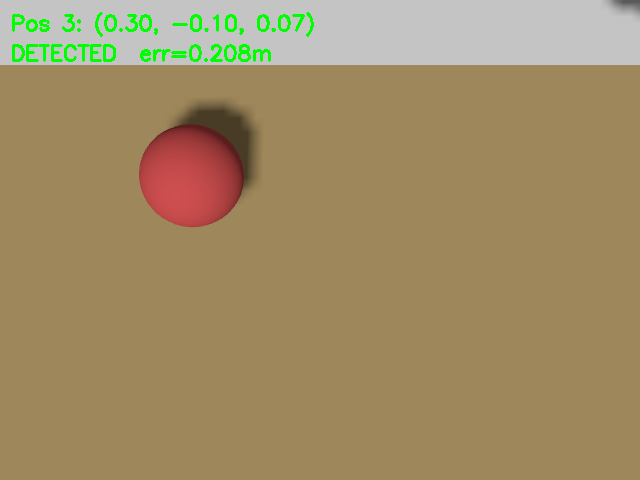
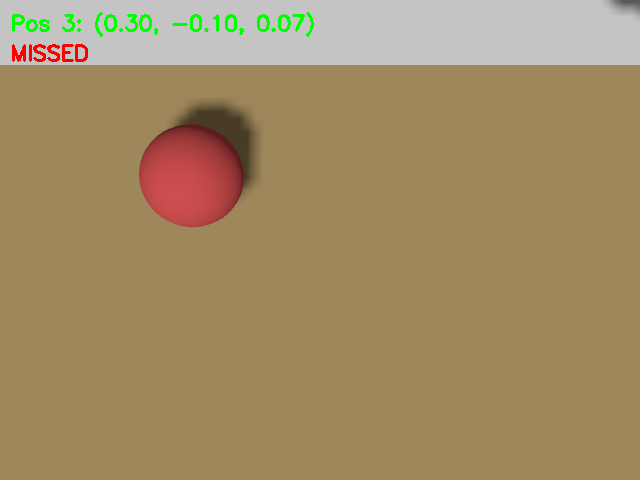
fixed centroid math

Changed region(s): [[0.0, 0.0938, 0.1875, 0.1562], [0.2188, 0.0938, 0.4375, 0.125]]

diff --git a/code/ros-gazebo-v1/ros2_ws/src/ur3e_gazebo/ur3e_gazebo/test_apple_detection.py b/code/ros-gazebo-v1/ros2_ws/src/ur3e_gazebo/ur3e_gazebo/test_apple_detection.py
@@ -29,7 +29,7 @@ TEST_POSITIONS = [
 
 ]
 
-OUTPUT_DIR = os.path.expanduser("~/Code/ROS/GroceryRobot/apple_detection_test_flip")
+OUTPUT_DIR = os.path.expanduser("~/Code/ROS/GroceryRobot/apple_detection_test")
 
 
 class AppleDetectionTester(Node):
@@ -126,6 +126,7 @@ class AppleDetectionTester(Node):
 
     def _save_image(self, position_index, x, y, z):
         detected = self._latest_location is not None
+      
         est_x = self._latest_location.point.x if detected else None
         est_y = self._latest_location.point.y if detected else None
         est_z = self._latest_location.point.z if detected else None
@@ -156,7 +157,7 @@ class AppleDetectionTester(Node):
         cv2.putText(cv_img_bgr, label,  (10, 30), cv2.FONT_HERSHEY_SIMPLEX, 0.7, (0, 255, 0), 2)
         cv2.putText(cv_img_bgr, status, (10, 60), cv2.FONT_HERSHEY_SIMPLEX, 0.7, (0, 0, 255) if not detected else (0, 255, 0), 2)
 
-        filename = os.path.join(OUTPUT_DIR, f"flip_pos{position_index:02d}_x{x:.2f}_y{y:.2f}.png")
+        filename = os.path.join(OUTPUT_DIR, f"pos{position_index:02d}_x{x:.2f}_y{y:.2f}.png")
         cv2.imwrite(filename, cv_img_bgr)
         self.get_logger().info(f"Saved: {filename}")
 
@@ -170,7 +171,8 @@ class AppleDetectionTester(Node):
 
             # Capture timestamp before moving
             prev_img_stamp = self._latest_image_stamp
-            
+            prev_loc_stamp = self._latest_location_stamp
+
 
             self.get_logger().info(
                 f"\n=== Test {i}/5: moving apple to ({x}, {y}, {z}) ==="
@@ -181,18 +183,17 @@ class AppleDetectionTester(Node):
                 continue
 
             time.sleep(1.0) 
-            prev_loc_stamp = self._latest_location_stamp
-
+            
             got_data = self._wait_for_fresh_data(prev_img_stamp, prev_loc_stamp, timeout=5.0)
 
             if not got_data:
                 self.get_logger().warn(f"No new data after move {i}")
 
             self._save_image(i, x, y, z)
-        self._write_summary()
+        #self._write_summary()
     
     def _write_summary(self):
-        path = os.path.join(OUTPUT_DIR, "flip_test_summary.txt")
+        path = os.path.join(OUTPUT_DIR, "test_summary.txt")
         with open(path, "w") as f:
             f.write("Apple Detection Test Summary\n")
             f.write("=" * 50 + "\n\n")

diff --git a/code/ros-gazebo-v1/ros2_ws/src/ur3e_gazebo/ur3e_gazebo/overhead_camera_localizer.py b/code/ros-gazebo-v1/ros2_ws/src/ur3e_gazebo/ur3e_gazebo/overhead_camera_localizer.py
@@ -228,7 +228,7 @@ class OverheadCameraLocalizer(Node):
         pixels = np.frombuffer(msg.data, dtype=np.uint8).reshape(
             msg.height, msg.width, 3
         )
-        pixels = cv2.flip(pixels, -1) # flip image before computing centroid
+        #pixels = cv2.flip(pixels, -1) # flip image before computing centroid
         mean_r = float(np.mean(pixels[:, :, 0]))
         mean_g = float(np.mean(pixels[:, :, 1]))
         mean_b = float(np.mean(pixels[:, :, 2]))
@@ -374,8 +374,8 @@ class OverheadCameraLocalizer(Node):
         model = PinholeCameraModel()
         model.fromCameraInfo(self._latest_camera_info)
         center_x, center_y = self._latest_centroid[1], self._latest_centroid[0]
-        #center_x = self._latest_camera_info.width - 1 - center_x
-        #center_y = self._latest_camera_info.height - 1 - center_y
+        center_x = self._latest_camera_info.width - 1 - center_x
+        center_y = self._latest_camera_info.height - 1 - center_y
 
         ray = model.projectPixelTo3dRay((center_x, center_y))
         point_in_camera_frame = [r * self._depth for r in ray]
